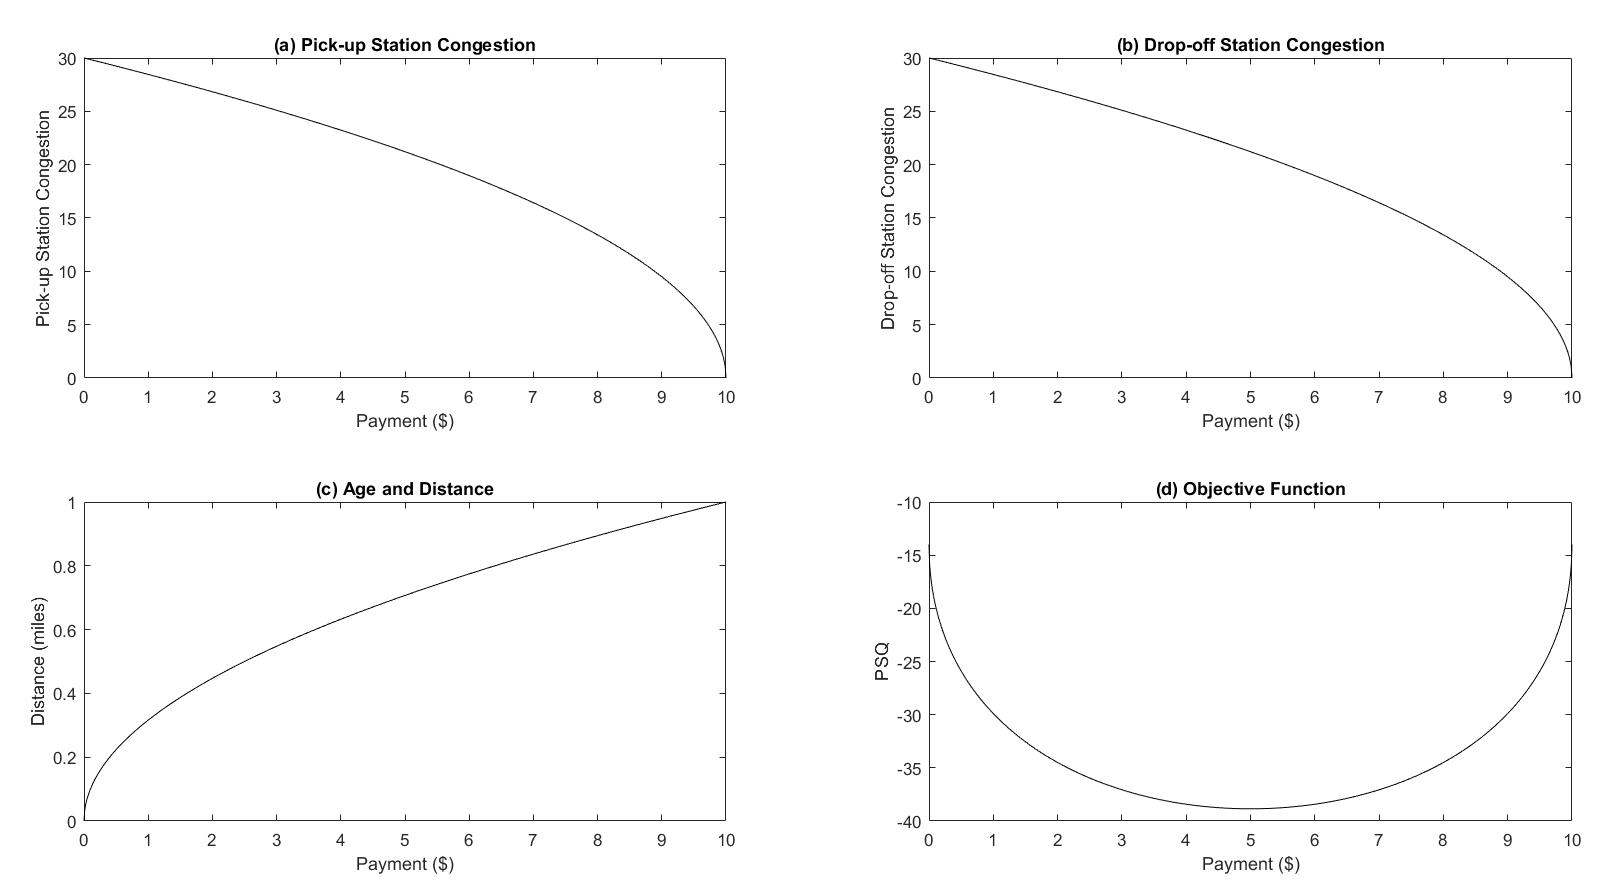
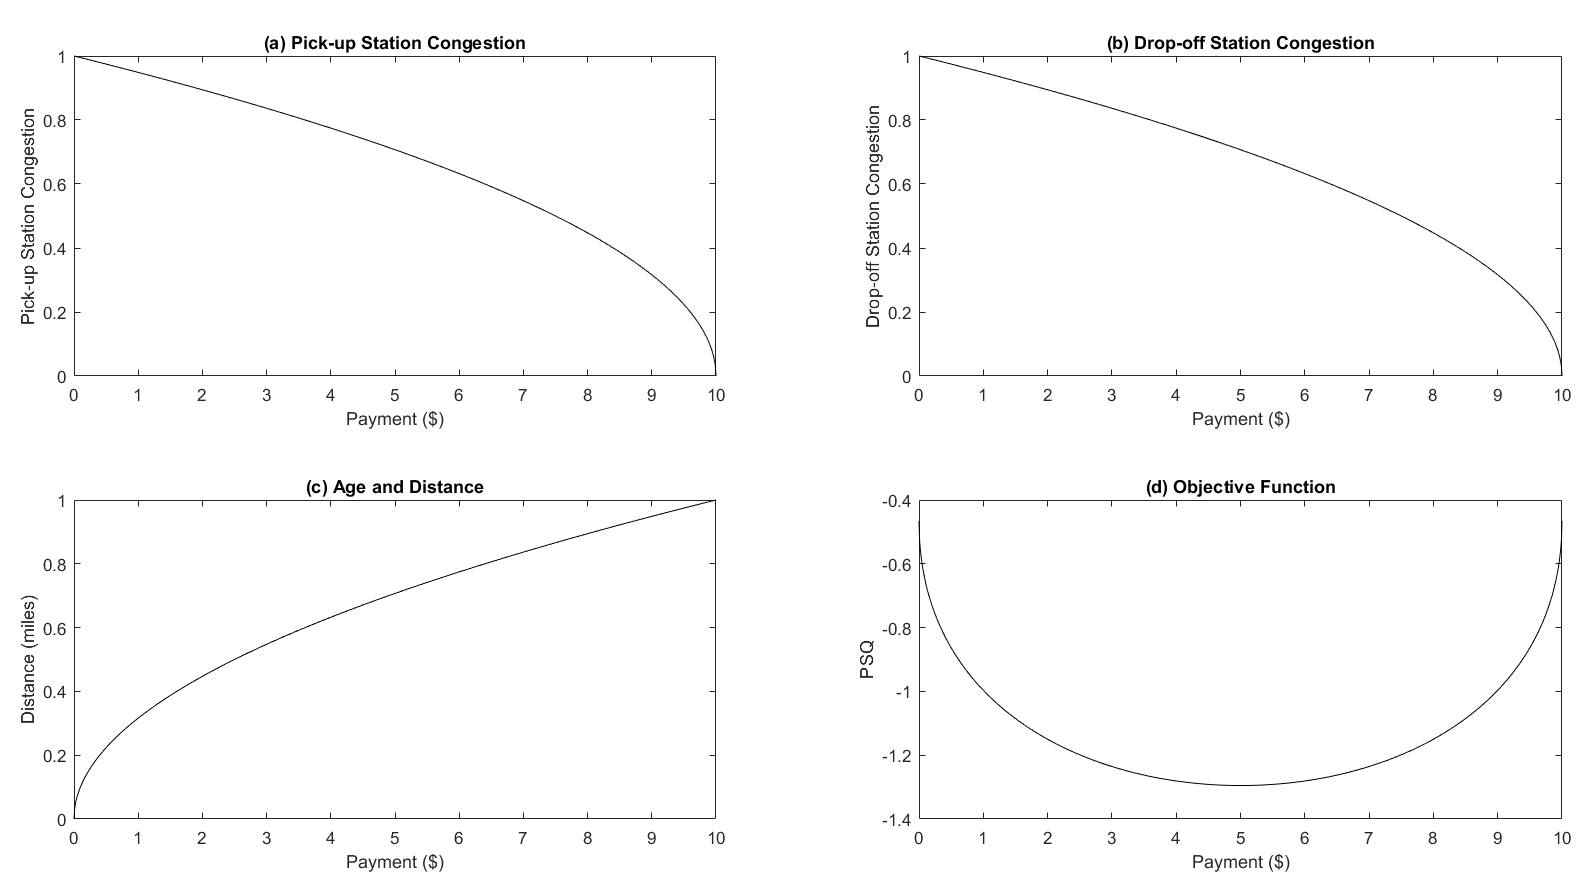
More changes...

diff --git a/paper/milestone3.tex b/paper/milestone3.tex
@@ -175,7 +175,8 @@ PSQ = w_1A_u(d_u - d(p_u)) + w_2(G_{s1}(pu) - G_{pu}(p_u)) \\ + w_3(G_{s2}(du) -
 \end{split}
 \end{equation}
 
-Figure 1 illustrates an example of these proposed functions for a 60-year-old user using arbitrary data. Based on the definitions of pick-up and drop-off congestions, a concave-down square root function is used to formulate $G_{pu}(p_u)$ and $G_{du}(p_u)$ so that a greater incentive ($p_u$) is offered to $u$ if he or she chooses to pick up a bike from a station with high drop-off congestion (not enough open docks) or drop off a bike at a station with high pick-up congestion (not enough bikes). These functions correspond to Figure 1(a) and Figure 1(b). In contrast, a concave-up square root function is used to provide greater incentives if $u$ is willing to walk a longer distance. This effect is illustrated in Figure 1(c). In addition, the three functions are constrained by the range of $r_u$, total budget ($B$), and current number of active users ($n$) as mentioned above.
+Figure 1 illustrates an example of these proposed functions for an 18-year-old user using arbitrary bike station data. Based on the definitions of pick-up and drop-off congestions, a concave-down square root function is used to formulate $G_{pu}(p_u)$ and $G_{du}(p_u)$ so that a greater incentive ($p_u$) is offered to $u$ if he or she chooses to pick up a bike from a station with high drop-off congestion (not enough open docks) or drop off a bike at a station with high pick-up congestion (not enough bikes). These functions correspond to Figure 1(a) and Figure 1(b). In contrast, a concave-up square root function is used to provide greater incentives if $u$ is willing to walk a longer distance. This effect is illustrated in Figure 1(c). In addition, the three functions are constrained by the range of $r_u$, total budget ($B$), and current number of active users ($n$) as mentioned above.
+
 While the three aforementioned factors tend to increase PSQ, they are balanced by the three proposed functions with $p_u$ as the variable. Since all three proposed functions are concave (a square root function is always concave), the summation of them guarantees the convexity of PSQ. $w_1$, $w_2$, and $w_3$ are constants assigned to each term to weight their importance during optimization, and the user age $A_u$ is used in the problem formulation to represent the correlation between age and willingness to walk an additional distance. This convexity is demonstrated in Figure 1(d).
 %$w_2$ and $w_3$ should be the same to reflect the equal importance of the pick-up and drop-off congestions, and $w_1$ should be significantly smaller than $w_2$ and $w_3$ since the main concern of the problem is system congestion.
 
